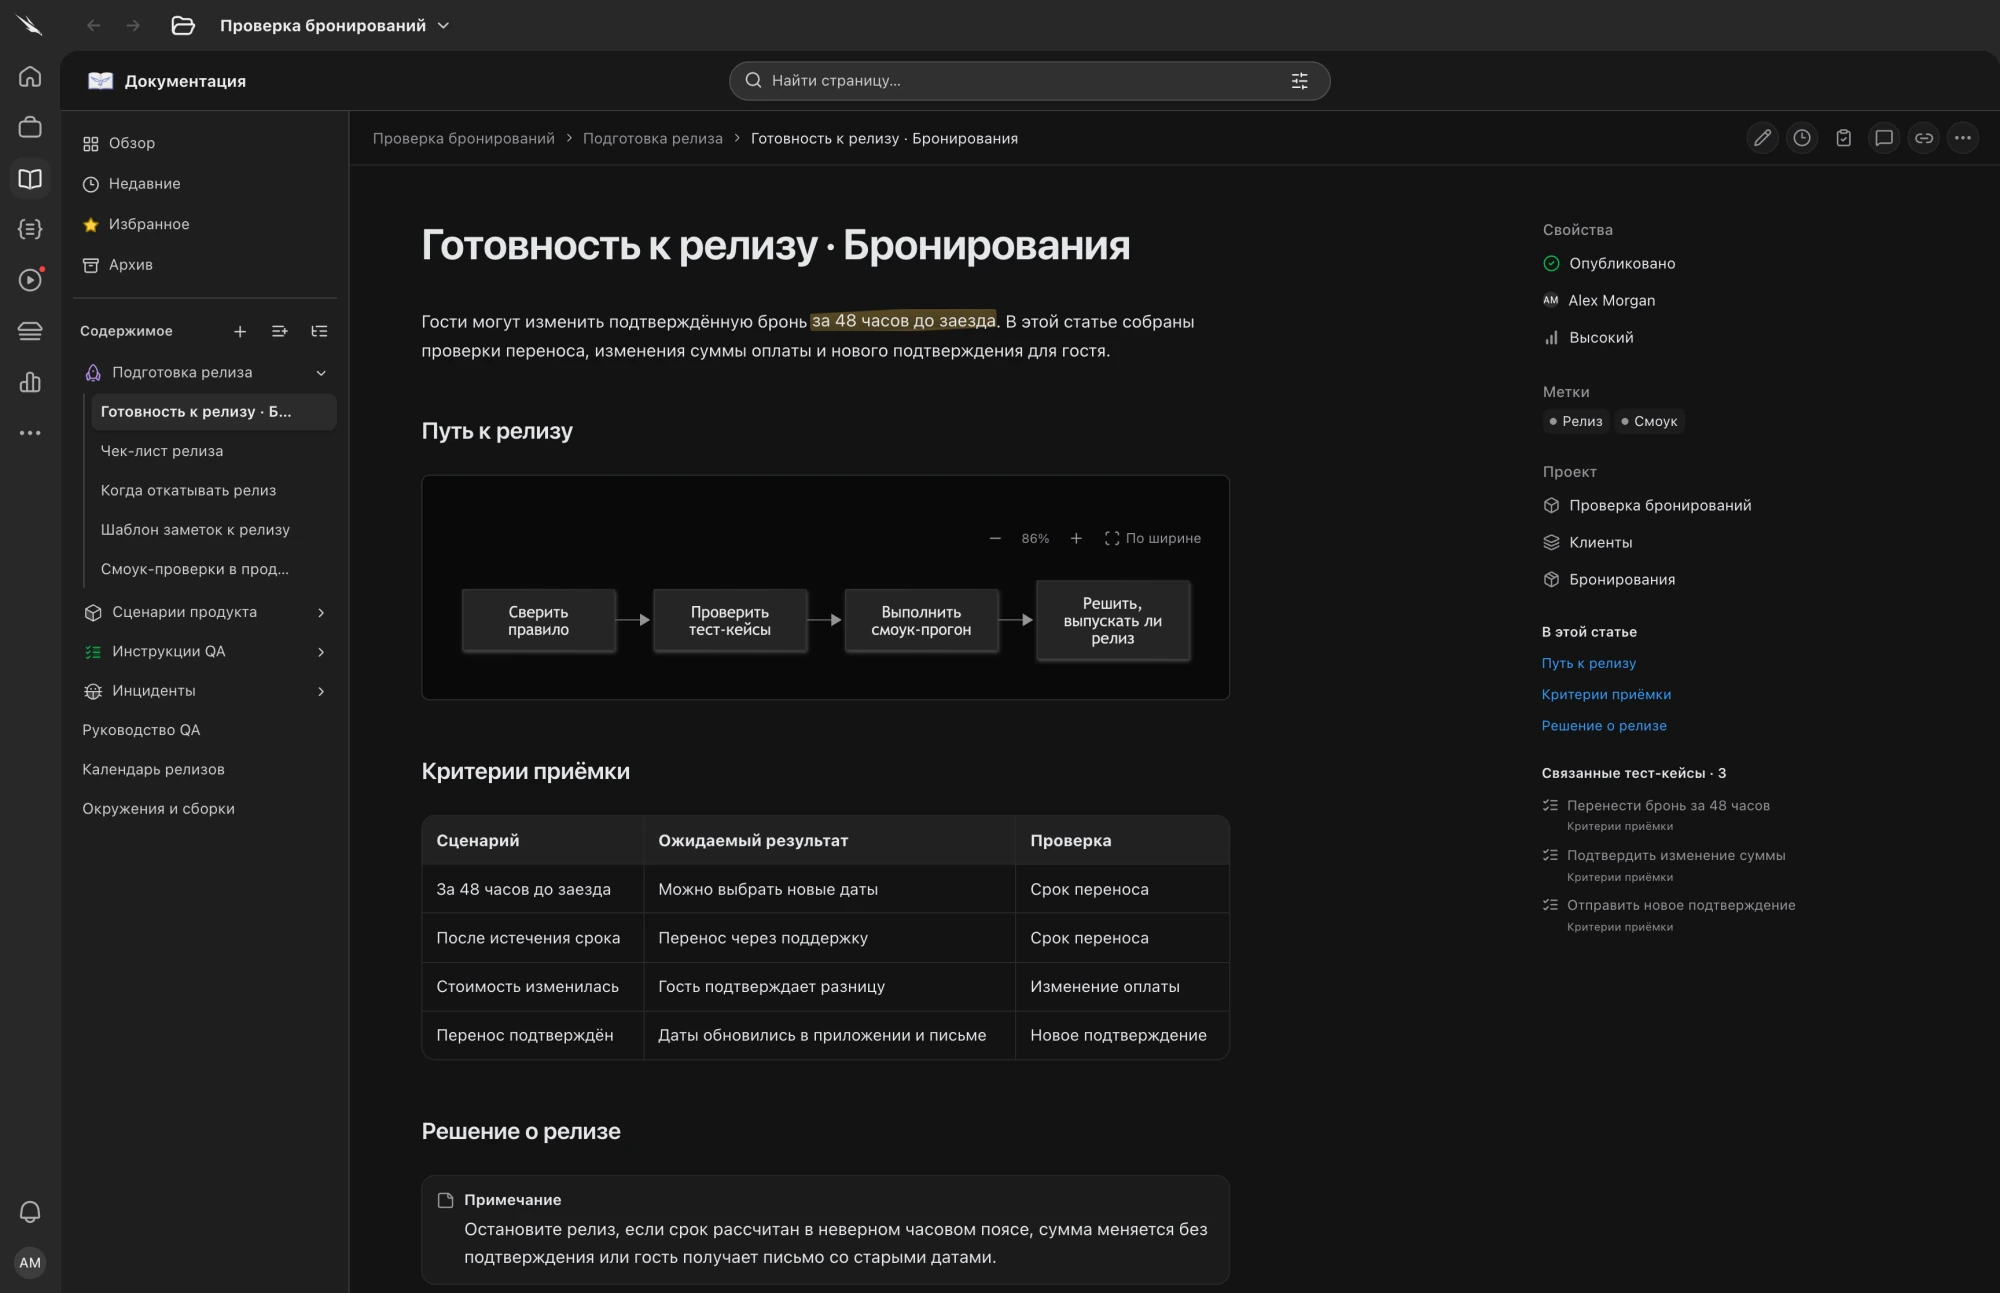
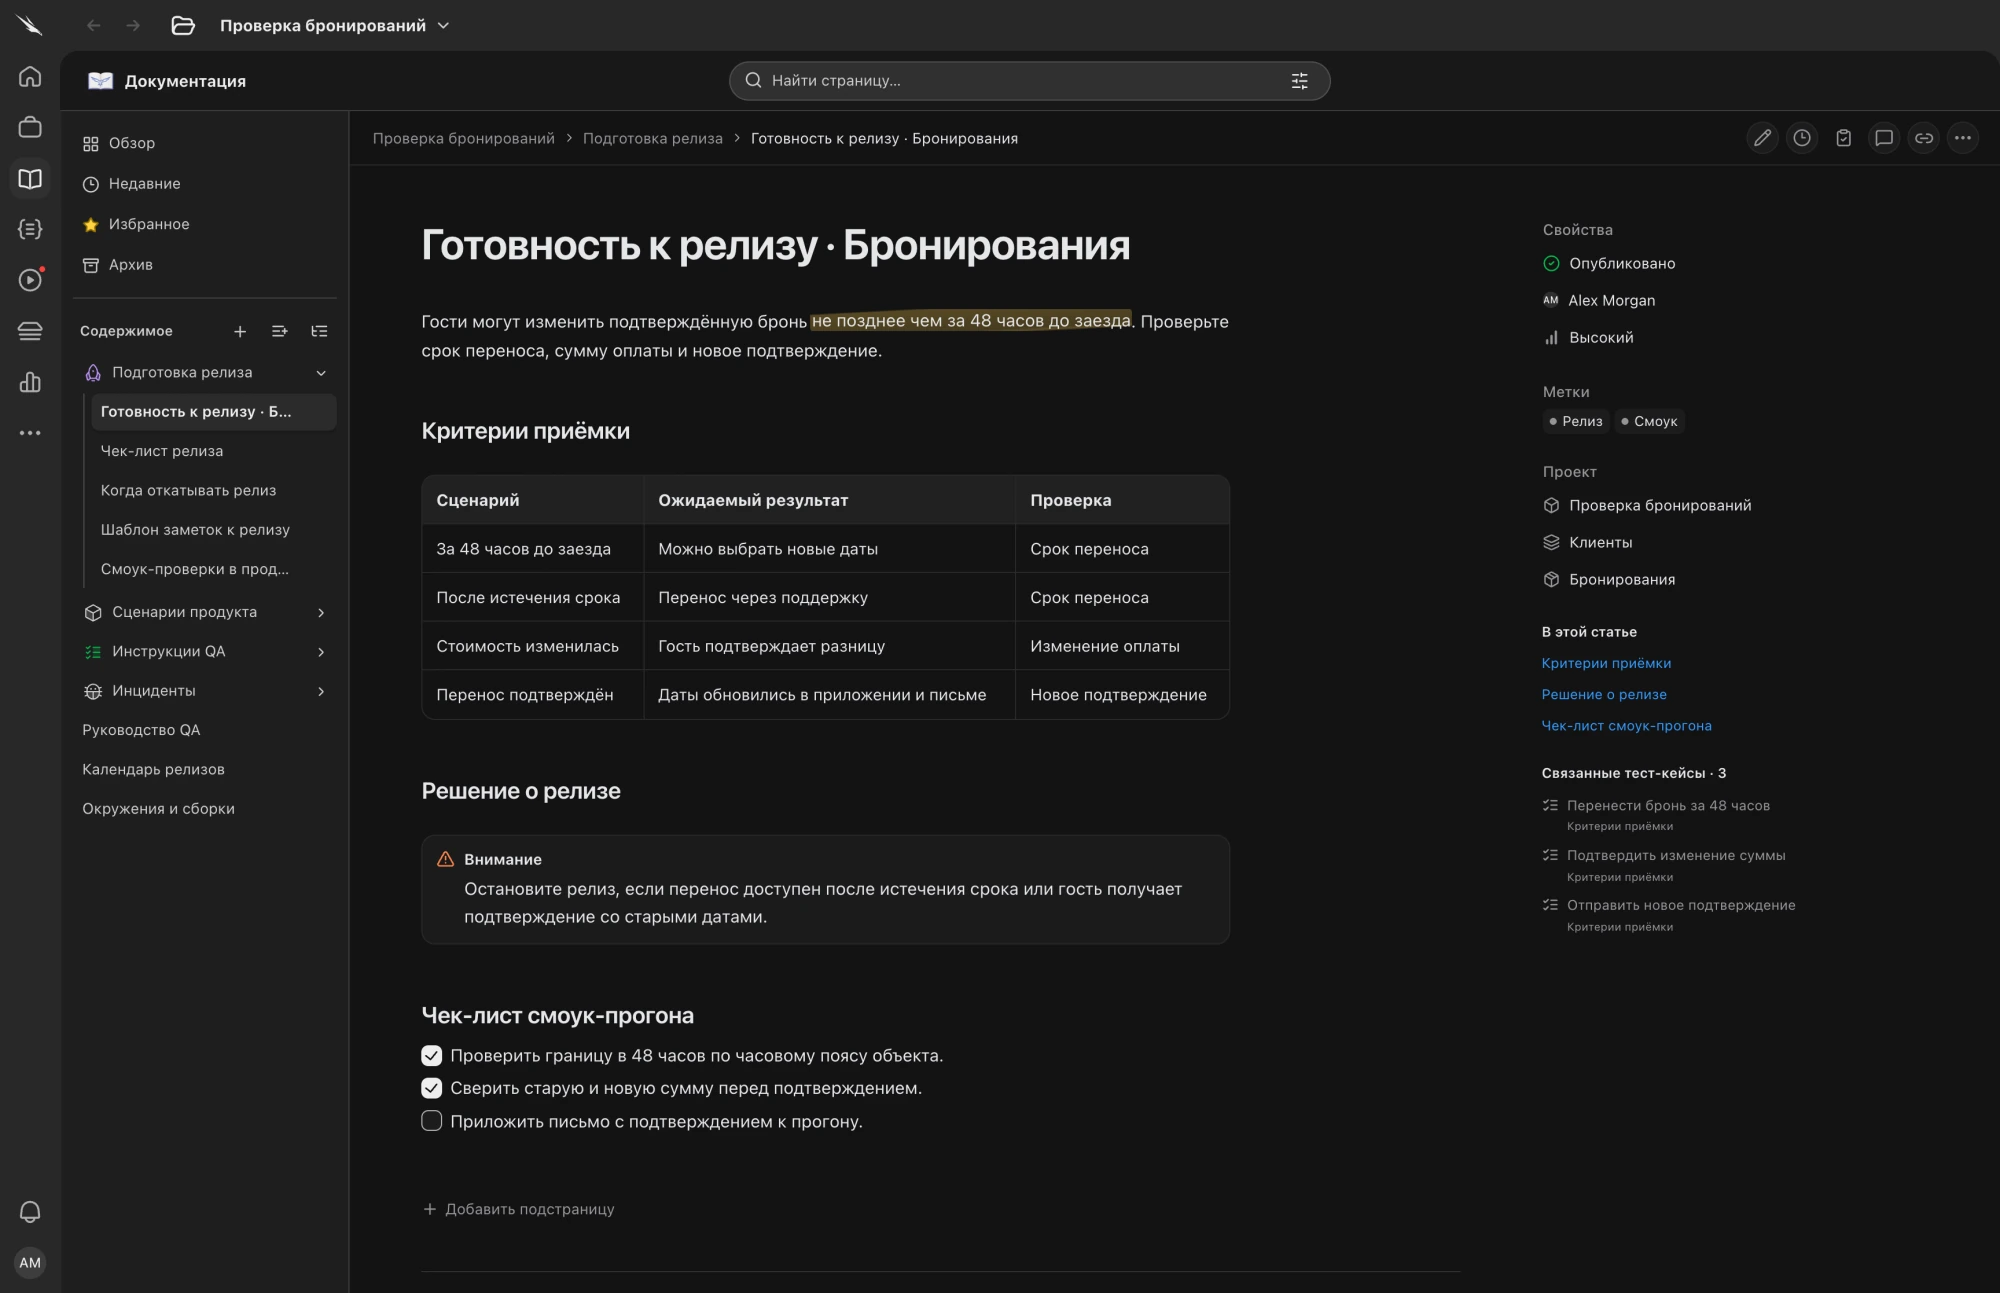
Stage the Falcon landing reveal and overlap documentation scenes

diff --git a/app/src/modules/core-falcon-public/direction/scenes/ProductScene.tsx b/app/src/modules/core-falcon-public/direction/scenes/ProductScene.tsx
@@ -1,25 +1,55 @@
 import type { LandingLocale } from '../../landing/localization/model/locale';
 import { directionCopy } from '../content/copy';
-import { falconProductImage } from '../../shared/product-images';
+import { falconProductImage, type FalconProductImageName } from '../../shared/product-images';
 import styles from '../direction.module.css';
 
-type SceneKind = 'hero' | 'coverage' | 'execution' | 'integrations';
-const compactImageVersion = '20261107';
+type SceneKind = 'hero' | 'coverage' | 'execution' | 'integrations' | 'documentation';
 
-export function ProductScene({ kind, locale }: { kind: SceneKind; locale: LandingLocale }) {
+type SceneImage = {
+  src: string;
+  width: number;
+  height: number;
+  compactSrc?: string;
+  compactWidth?: number;
+  compactHeight?: number;
+};
+
+const compactImageVersion = '20261107';
+const docsImageVersion = '20261110';
+
+function standardImage(name: FalconProductImageName, locale: LandingLocale): SceneImage {
+  const capture = falconProductImage(name, locale);
+  return { ...capture, compactSrc: `${capture.compactSrc}?v=${compactImageVersion}` };
+}
+
+export function ProductScene({ kind, locale, descriptionId }: {
+  kind: SceneKind;
+  locale: LandingLocale;
+  descriptionId?: string;
+}) {
   const c = directionCopy[locale];
-  const main = falconProductImage(kind === 'execution' ? 'dashboard' : kind === 'integrations' ? 'integrations' : 'repository', locale);
-  const overlay = falconProductImage(kind === 'execution' ? 'run' : kind === 'integrations' ? 'codex' : 'suites', locale);
-  const mainAlt = kind === 'execution' ? c.dashboardAlt : kind === 'integrations' ? c.integrationsAlt : c.heroAlt;
-  const overlayAlt = kind === 'execution' ? c.runAlt : kind === 'integrations' ? c.integrationsAlt : c.suitesAlt;
-  return <figure className={styles.productScene} data-scene={kind} aria-label={kind === 'hero' ? c.heroAlt : undefined}>
+  const docsBase = `/falcon/landing/2026-11/${locale}/product-docs`;
+  const documentation = kind === 'documentation';
+  const main: SceneImage = documentation
+    ? {
+      src: `${docsBase}.webp?v=${docsImageVersion}`, width: 2000, height: 1293,
+      compactSrc: `${docsBase}-1152.webp?v=${docsImageVersion}`, compactWidth: 1152, compactHeight: 1024,
+    }
+    : standardImage(kind === 'execution' ? 'dashboard' : kind === 'integrations' ? 'integrations' : 'repository', locale);
+  const overlay: SceneImage = documentation
+    ? { src: `${docsBase}-overview.webp`, width: 1728, height: 1117 }
+    : standardImage(kind === 'execution' ? 'run' : kind === 'integrations' ? 'codex' : 'suites', locale);
+  const mainAlt = documentation ? c.documentation.alt : kind === 'execution' ? c.dashboardAlt : kind === 'integrations' ? c.integrationsAlt : c.heroAlt;
+  const overlayAlt = documentation ? c.documentation.overviewAlt : kind === 'execution' ? c.runAlt : kind === 'integrations' ? c.integrationsAlt : c.suitesAlt;
+  return <figure className={styles.productScene} data-scene={kind}
+    aria-label={kind === 'hero' ? c.heroAlt : undefined} aria-describedby={descriptionId}>
     <div className={styles.scenePlane}>
       <picture className={styles.sceneMain}>
-        <source media="(max-width: 760px)" srcSet={`${main.compactSrc}?v=${compactImageVersion}`} />
+        <source media="(max-width: 760px)" srcSet={main.compactSrc} width={main.compactWidth} height={main.compactHeight} />
         <img src={main.src} width={main.width} height={main.height} alt={mainAlt} loading={kind === 'hero' ? 'eager' : 'lazy'} fetchPriority={kind === 'hero' ? 'high' : 'auto'} />
       </picture>
       <picture className={styles.sceneOverlay}>
-        <source media="(max-width: 760px)" srcSet={`${overlay.compactSrc}?v=${compactImageVersion}`} />
+        {overlay.compactSrc && <source media="(max-width: 760px)" srcSet={overlay.compactSrc} />}
         <img src={overlay.src} width={overlay.width} height={overlay.height} alt={overlayAlt} loading={kind === 'hero' ? 'eager' : 'lazy'} />
       </picture>
     </div>

diff --git a/app/src/modules/core-falcon-public/direction/direction.module.css b/app/src/modules/core-falcon-public/direction/direction.module.css
@@ -21,50 +21,18 @@
   white-space: normal;
 }
 .documentationLinks svg { flex: none; }
-.chapter > .documentationScene { margin-top: clamp(28px, 5vw, 64px); }
-.documentationScene {
-  display: grid;
-  grid-template-columns: minmax(0, 1fr) minmax(0, 52%);
-  align-items: center;
-  gap: 18px clamp(24px, 5vw, 72px);
-}
-.documentationMain,
-.documentationInset {
-  display: block;
-  overflow: hidden;
-  border: 1px solid var(--landing-line);
-  border-radius: 12px;
-  background: var(--falcon-panel);
-}
-.documentationScene img {
-  display: block;
-  width: 100%;
-  height: auto;
-}
-.documentationMain { grid-column: 1 / -1; }
-.documentationInset {
-  grid-column: 2;
-  grid-row: 2;
-  justify-self: end;
-  width: min(100%, 600px);
-  box-shadow: 0 14px 36px #0008;
-}
-.documentationScene figcaption {
-  grid-column: 1;
-  grid-row: 2;
-  max-width: 36ch;
+.chapter .documentationCaption {
+  margin-top: 10px;
+  max-width: 60ch;
   color: var(--landing-muted);
   font-size: 15px;
   line-height: 1.55;
 }
 @media (max-width: 760px) {
-  .chapter:has(.documentationScene) .chapterHeading { grid-template-columns: minmax(0, 1fr); }
-  .chapter:has(.documentationScene) h2 { white-space: normal; }
+  .chapter:has(.documentationCaption) .chapterHeading { grid-template-columns: minmax(0, 1fr); }
+  .chapter:has(.documentationCaption) h2 { white-space: normal; }
   .documentationLinks { margin-top: 6px; gap: 0 20px; }
-  .documentationScene { grid-template-columns: minmax(0, 1fr); gap: 12px; }
-  .documentationInset, .documentationScene figcaption { grid-column: 1; grid-row: auto; }
-  .documentationInset { width: 94%; }
-  .documentationScene figcaption { font-size: 13px; }
+  .chapter .documentationCaption { font-size: 13px; }
 }
 .footer {
   border-top: 1px solid var(--landing-line);
@@ -110,17 +78,17 @@
   .hero h1 {
     --hero-copy-blur: 10px;
     --hero-copy-offset: 18px;
-    animation: heroCopyEnter 760ms cubic-bezier(.16, 1, .3, 1) backwards;
+    animation: heroCopyEnter 900ms cubic-bezier(.22, .61, .36, 1) backwards;
   }
 
   .heroSubline {
     --hero-copy-blur: 5px;
     --hero-copy-offset: 8px;
-    animation: heroCopyEnter 660ms cubic-bezier(.16, 1, .3, 1) 190ms backwards;
+    animation: heroCopyEnter 750ms cubic-bezier(.22, .61, .36, 1) 900ms backwards;
   }
 
   .hero .scenePlane {
-    animation: sceneSettle 840ms cubic-bezier(.16, 1, .3, 1) 410ms backwards;
+    animation: sceneSettle 1100ms cubic-bezier(.22, .61, .36, 1) 1650ms backwards;
   }
 }
 
@@ -258,6 +226,8 @@
     transform: none;
   }
   .hero .sceneOverlay { top: 41%; width: 59%; }
+  .productScene[data-scene="documentation"] { aspect-ratio: 1.39; }
+  .productScene[data-scene="documentation"] .sceneOverlay { top: 46%; width: 58%; }
 
   .integrations {
     display: grid;

diff --git a/app/src/modules/core-falcon-public/direction/content/copy.ts b/app/src/modules/core-falcon-public/direction/content/copy.ts
@@ -16,7 +16,7 @@ export const directionCopy = {
       title: 'From the requirement\nto release sign-off.',
       body: 'Write product specs and QA guides in Falcon. Add acceptance criteria, link the test cases that cover them, and embed run results or dashboards so the whole team can see what’s ready to ship.',
       guides: { en: 'Falcon Guide in English', ru: 'Falcon Guide in Russian' },
-      alt: 'A Falcon Docs page with booking acceptance criteria, linked test cases and a diagram from the requirement to the release decision.',
+      alt: 'A Falcon Docs release guide with highlighted booking rules, an acceptance criteria table and a QA checklist.',
       overviewAlt: 'The Falcon Docs overview with release guides, product workflows, QA playbooks and incident documentation.',
       caption: 'A release guide with acceptance criteria and test coverage, alongside the documentation library the QA team shares.',
     },
@@ -77,7 +77,7 @@ export const directionCopy = {
       title: 'От требований\nдо решения о релизе.',
       body: 'Пишите спецификации и инструкции для QA в Falcon. Добавляйте критерии приёмки, связывайте их с тест-кейсами и встраивайте результаты прогонов и дашборды, чтобы вся команда видела, что готово к релизу.',
       guides: { en: 'Гайд Falcon на английском', ru: 'Гайд Falcon на русском' },
-      alt: 'Статья в Falcon с критериями приёмки для бронирований, связанными тест-кейсами и диаграммой от требования до решения о релизе.',
+      alt: 'Руководство по релизу в Falcon с выделенными правилами бронирования, таблицей критериев приёмки и чек-листом QA.',
       overviewAlt: 'Обзор библиотеки Falcon Docs с разделами подготовки релиза, сценариев продукта, инструкций QA и инцидентов.',
       caption: 'Руководство по релизу с критериями приёмки и тестовым покрытием. Рядом — общая библиотека документации команды QA.',
     },

diff --git a/app/src/modules/core-falcon-public/direction/scenes/tests/product-scene.test.tsx b/app/src/modules/core-falcon-public/direction/scenes/tests/product-scene.test.tsx
@@ -15,17 +15,22 @@ test('every product scene uses the requested language and native capture dimensi
     { kind: 'coverage', products: ['repository', 'suites'] },
     { kind: 'execution', products: ['dashboard', 'run'] },
     { kind: 'integrations', products: ['integrations', 'codex'] },
+    { kind: 'documentation', products: ['docs', 'docs-overview'] },
   ] as const;
   for (const locale of ['en', 'ru'] as const) for (const { kind, products } of scenes) {
     const tree = create(<ProductScene kind={kind} locale={locale} />);
     try {
       const images = tree.root.findAllByType('img');
       assert.deepEqual(images.map(image => image.props.src), products.map(product =>
-        `/falcon/landing/2026-11/${locale}/product-${product}.webp`));
-      for (const image of images) {
-        assert.equal(image.props.width, 3456);
-        assert.equal(image.props.height, 2234);
-        assert.ok(image.props.alt);
+        `/falcon/landing/2026-11/${locale}/product-${product}.webp${product === 'docs' ? '?v=20261110' : ''}`));
+      assert.deepEqual(images.map(image => [image.props.width, image.props.height]),
+        kind === 'documentation' ? [[2000, 1293], [1728, 1117]] : [[3456, 2234], [3456, 2234]]);
+      for (const image of images) assert.ok(image.props.alt);
+      if (kind === 'documentation') {
+        const [mobileSource] = tree.root.findAllByType('source');
+        assert.equal(mobileSource.props.srcSet, `/falcon/landing/2026-11/${locale}/product-docs-1152.webp?v=20261110`);
+        assert.equal(mobileSource.props.width, 1152);
+        assert.equal(mobileSource.props.height, 1024);
       }
       assert.equal(images[0].props.loading, kind === 'hero' ? 'eager' : 'lazy');
       assert.equal(images[1].props.loading, kind === 'hero' ? 'eager' : 'lazy');

diff --git a/app/src/modules/core-falcon-public/direction/FalconDirection.tsx b/app/src/modules/core-falcon-public/direction/FalconDirection.tsx
@@ -102,30 +102,8 @@ export function FalconDirection() {
             </div>
           </div>
         </div>
-        <figure className={styles.documentationScene}>
-          <picture className={styles.documentationMain}>
-            <source media="(max-width: 760px)" srcSet={`/falcon/landing/2026-11/${locale}/product-docs-1152.webp`} width={1152} height={1024} />
-            <img
-              src={`/falcon/landing/2026-11/${locale}/product-docs.webp`}
-              width={2000}
-              height={1293}
-              alt={c.documentation.alt}
-              loading="lazy"
-              decoding="async"
-            />
-          </picture>
-          <div className={styles.documentationInset}>
-            <img
-              src={`/falcon/landing/2026-11/${locale}/product-docs-overview.webp`}
-              width={1728}
-              height={1117}
-              alt={c.documentation.overviewAlt}
-              loading="lazy"
-              decoding="async"
-            />
-          </div>
-          <figcaption>{c.documentation.caption}</figcaption>
-        </figure>
+        <ProductScene kind="documentation" locale={locale} descriptionId="documentation-caption" />
+        <p className={styles.documentationCaption} id="documentation-caption">{c.documentation.caption}</p>
       </section>
       <section id="repository" className={styles.chapter} aria-labelledby="repository-title">
         <div className={styles.chapterHeading}>
